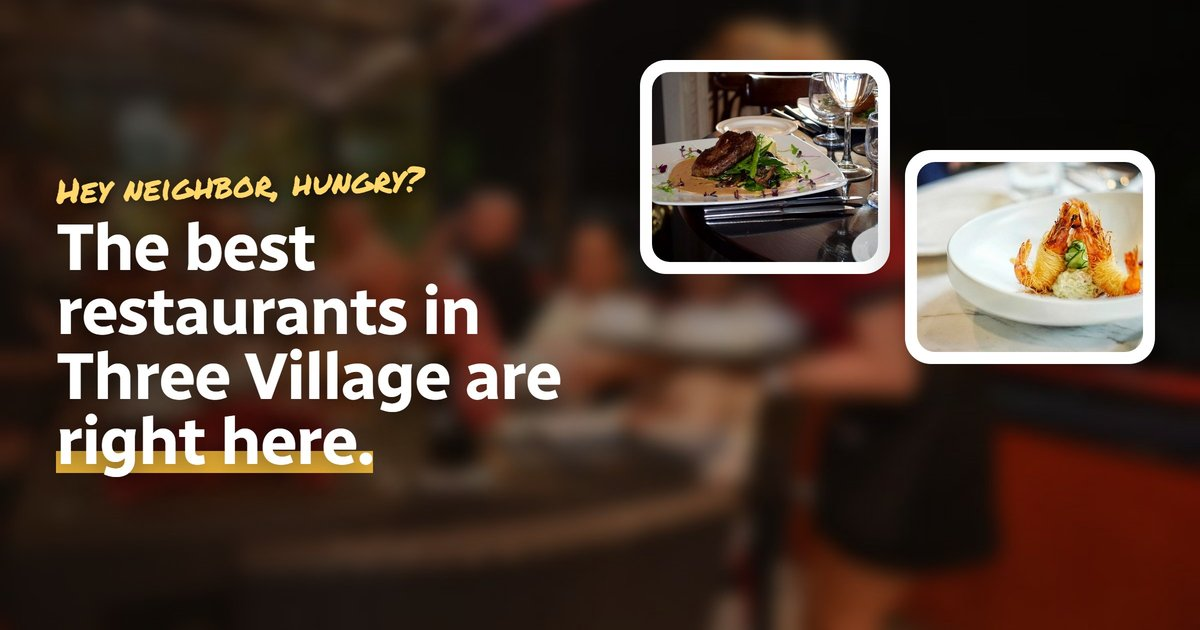
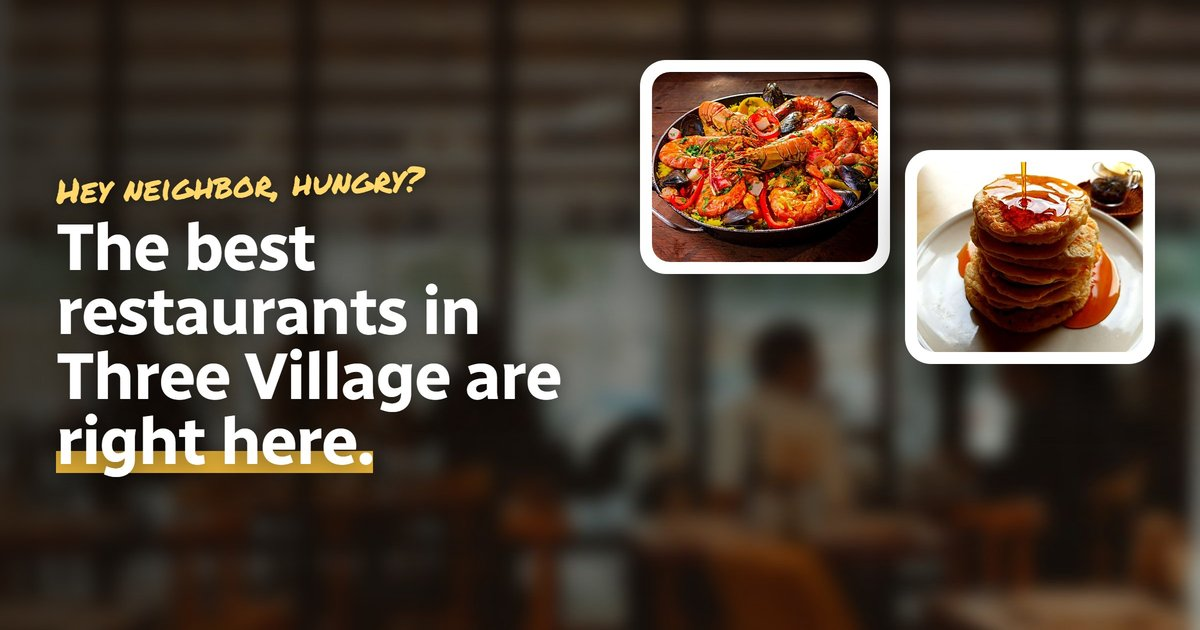
restaurant spotlight v4

diff --git a/preview/category-spotlights.html b/preview/category-spotlights.html
@@ -1,5 +1,5 @@
 <!doctype html><html><head><meta charset='utf-8'><meta name='viewport' content='width=device-width,initial-scale=1'><meta name='robots' content='noindex,nofollow'><title>PREVIEW: Restaurant spotlight</title>
 <style>body{margin:0;background:#eef1f5;font-family:Arial,sans-serif;color:#13233a}.w{max-width:1000px;margin:0 auto;padding:16px}img{width:100%;border-radius:12px;box-shadow:0 8px 24px rgba(0,0,0,.15)}.r{display:flex;gap:16px;flex-wrap:wrap}.r>div{flex:1 1 300px}</style></head><body><div class='w'>
-<div style='background:#fff8e1;border:1px solid #f2d27a;border-radius:12px;padding:12px 14px;margin-bottom:14px'><b>Restaurant spotlight with stock dinner photos, no restaurant names.</b> Nothing posted.</div>
-<div class='r'><div><h3>Instagram + Facebook post (4:5)</h3><img src='https://threevillagelocal-cloud.github.io/3vl-share/category-spotlight/restaurant-ig.jpg?v=4'></div><div style='max-width:360px'><h3>Story (9:16)</h3><img src='https://threevillagelocal-cloud.github.io/3vl-share/category-spotlight/restaurant-story.jpg?v=4'></div></div>
-<h3>Page share image (when anyone shares /restaurant)</h3><img src='https://threevillagelocal-cloud.github.io/3vl-share/category-spotlight/restaurant-og-preview.jpg?v=4'></div></body></html>
+<div style='background:#fff8e1;border:1px solid #f2d27a;border-radius:12px;padding:12px 14px;margin-bottom:14px'><b>Restaurant spotlight with vibrant dinner photos (Pexels, no credit needed).</b> Nothing posted.</div>
+<div class='r'><div><h3>Instagram + Facebook post (4:5)</h3><img src='https://threevillagelocal-cloud.github.io/3vl-share/category-spotlight/restaurant-ig.jpg?v=5'></div><div style='max-width:360px'><h3>Story (9:16)</h3><img src='https://threevillagelocal-cloud.github.io/3vl-share/category-spotlight/restaurant-story.jpg?v=5'></div></div>
+<h3>Page share image (when anyone shares /restaurant)</h3><img src='https://threevillagelocal-cloud.github.io/3vl-share/category-spotlight/restaurant-og-preview.jpg?v=5'></div></body></html>
